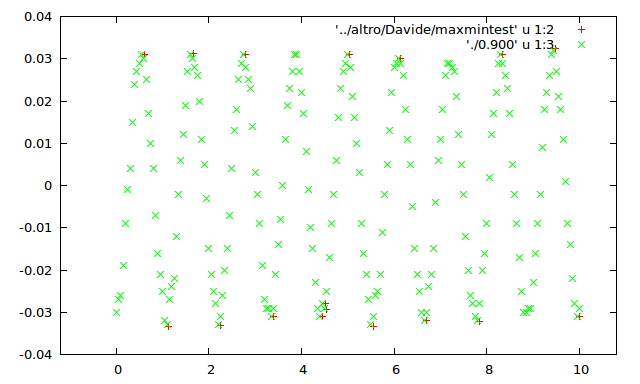
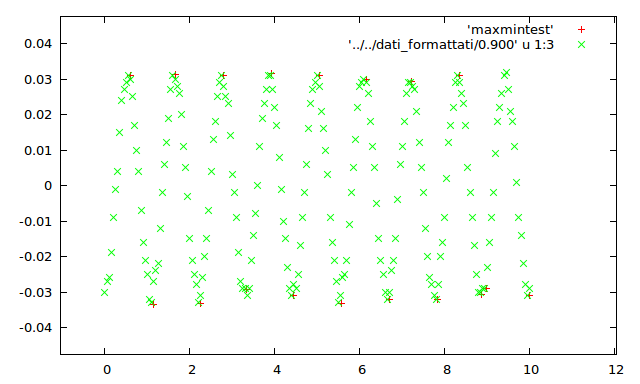
Finito i maxmin?

diff --git a/src/massimi_minimi.cpp b/src/massimi_minimi.cpp
@@ -121,7 +121,7 @@ int main()
 		c = dc / delta;
 		vortex = - b / ( 2 * c );
 		vortey = - ( b * b - 4 * a * c ) / ( 4 * c );
-		xverticiMAX.push_back(vortex * 0.05);
+		xverticiMAX.push_back(vortex * 0.05); //Presente valore di conversione delle x
 		yverticiMAX.push_back(vortey); 
 	}
 
@@ -182,13 +182,13 @@ int main()
 
 	for (int i = 0 ; i < max_size - 1 ; i++) //Permette di trovare eventuali massimi fasulli
 	{
-		if (abs (xverticiMAX.at(i) - xverticiMAX.at(i+1)) < 0.8 )
+		if (abs (xverticiMAX.at(i) - xverticiMAX.at(i+1)) < 0.8 ) //Intervallo considerato errore
 		{
-			if (yverticiMAX.at(i) - yverticiMAX.at(i+1) > 0)
+			if (abs( yverticiMAX.at(i) ) - abs( yverticiMAX.at(i+1) ) >= 0)
 			{
 				temperasemax = i+1;
 				eliminamassimi.push_back(temperasemax);
-			} else if (yverticiMAX.at(i) - yverticiMAX.at(i+1) < 0)
+			} else if (abs ( yverticiMAX.at(i) ) - abs ( yverticiMAX.at(i+1) ) < 0 && temperasemax != i)
 			 {
 				temperasemax = i;
 				eliminamassimi.push_back(temperasemax);
@@ -201,11 +201,11 @@ int main()
 	{
 		if (abs (xverticiMIN.at(i) - xverticiMIN.at(i+1)) < 0.8 )
 		{
-			if (yverticiMIN.at(i) - yverticiMIN.at(i+1) < 0)
+			if (abs ( yverticiMIN.at(i) ) - abs ( yverticiMIN.at(i+1) ) <= 0)
 			{
 				temperasemin = i+1;
 				eliminaminimi.push_back(temperasemin);
-			} else if (yverticiMIN.at(i) - yverticiMIN.at(i+1) > 0)
+			} else if (abs ( yverticiMIN.at(i) ) - abs ( yverticiMIN.at(i+1) ) > 0 && temperasemin != i )
 			 {
 				temperasemin = i;
 				eliminaminimi.push_back(temperasemin);
@@ -217,6 +217,7 @@ int main()
 	int puliziamax = eliminamassimi.size();
 	int puliziamin = eliminaminimi.size();
 
+
 	for (int i = 0 ; i < puliziamax ; i++) //Pulisce il vector definitivo di massimi
 	{
 		xverticiMAX.erase( xverticiMAX.begin() + eliminamassimi.at(i) );
@@ -227,7 +228,7 @@ int main()
 	{
 		xverticiMIN.erase( xverticiMIN.begin() + eliminaminimi.at(i) );
 		yverticiMIN.erase( yverticiMIN.begin() + eliminaminimi.at(i) );
-	} 
+	}
 
 	double max_v_size  = xverticiMAX.size();
 	double min_v_size = xverticiMIN.size();
